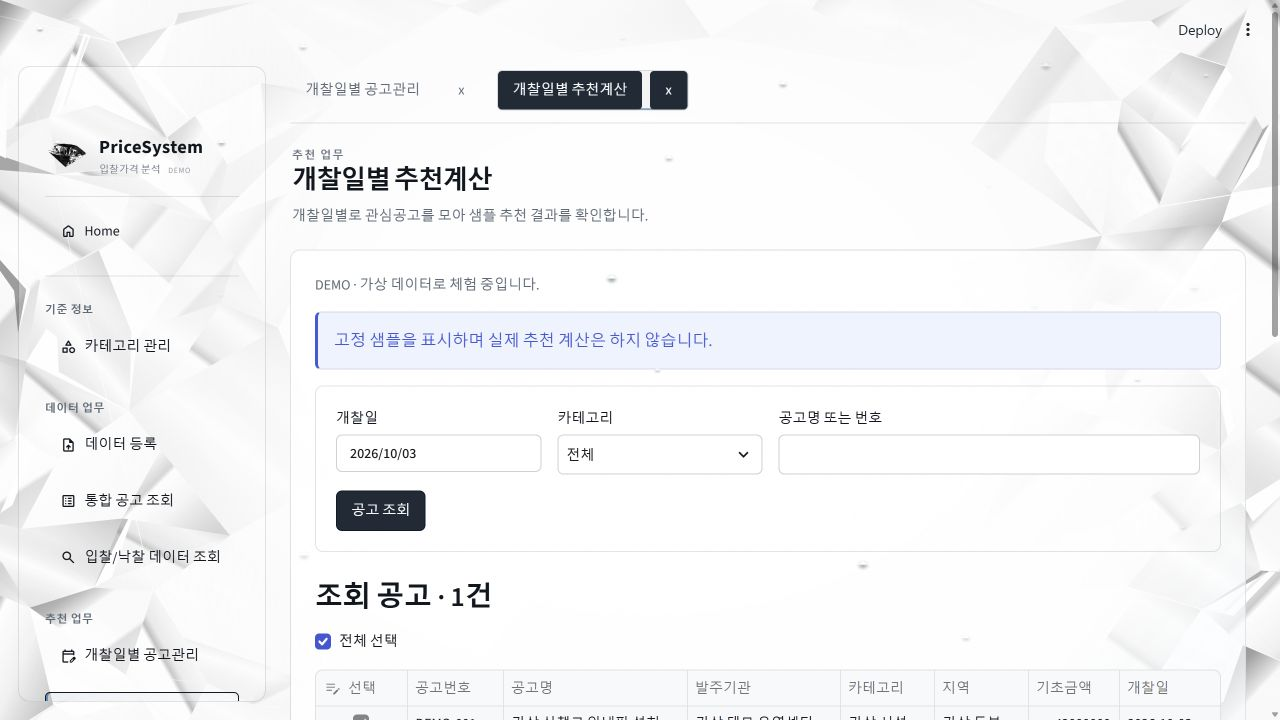
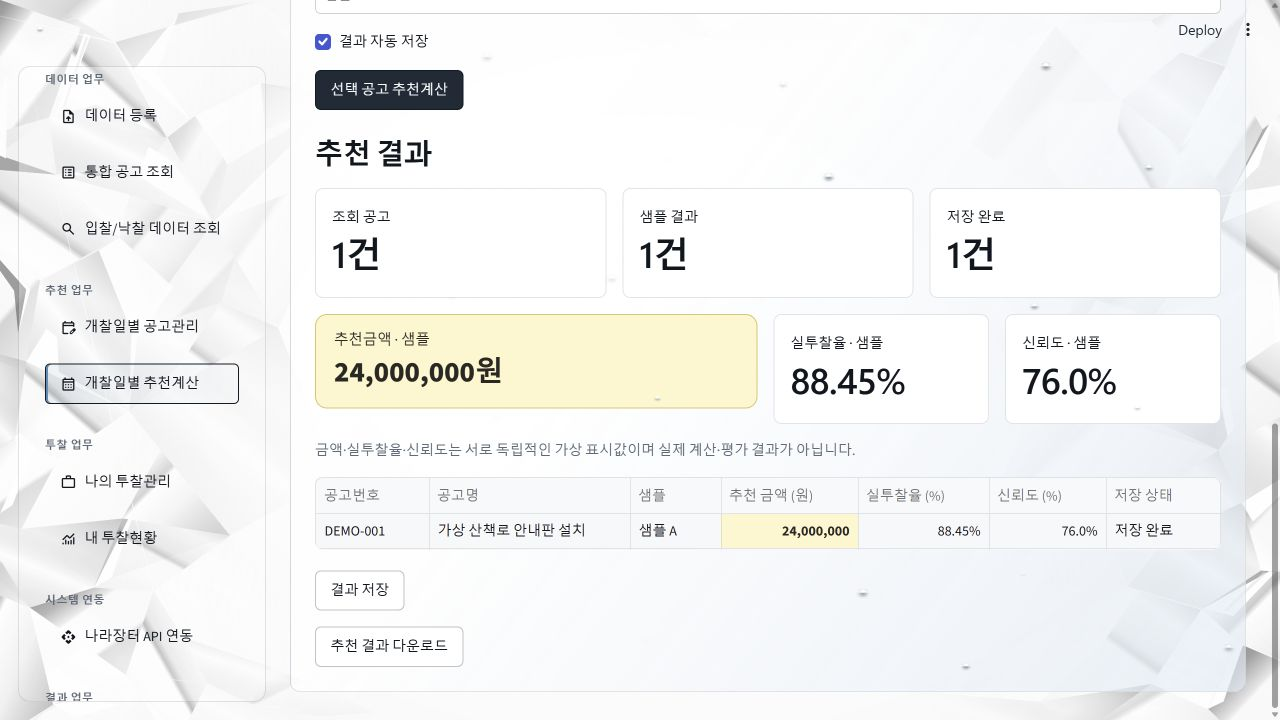
feat: add sample backtest and recommendation metrics

diff --git a/assets/demo.css b/assets/demo.css
@@ -1145,3 +1145,13 @@ div[class*="st-key-workspace_tab_"] div[class*="st-key-tab_close_"] button {
 }
 
 .demo-badge { display:inline-block; margin-left:.35rem; font-size:.5rem; letter-spacing:.08em; opacity:.7; }
+
+.recommendation-amount {
+  background: #fff7cc;
+  color: #292824;
+  border: 1px solid #dcc66b;
+  border-radius: 12px;
+  padding: 14px 18px;
+}
+.recommendation-amount span { display: block; font-size: 0.9rem; }
+.recommendation-amount strong { display: block; font-size: 1.8rem; font-weight: 800; }

diff --git a/demo/bid_pages.py b/demo/bid_pages.py
@@ -5,7 +5,7 @@ import pandas as pd
 import streamlit as st
 
 from demo.data_pages import _upload_panel
-from demo.services import api_response, recommendation
+from demo.services import api_response, backtest_sample, recommendation
 from demo.store import RESULT_OUTCOMES, SUBMISSION_STATUSES
 from demo.ui import csv_bytes as _csv, done, table
 
@@ -30,7 +30,8 @@ def _matches(row, query):
 def _sample_row(notice, scenario):
     sample = recommendation(scenario)
     return dict(notice_id=notice["id"], code=notice["code"], title=notice["title"],
-                scenario=scenario, amount=sample["amount"], note=sample["note"])
+                scenario=scenario, amount=sample["amount"], note=sample["note"],
+                bid_rate=sample["bid_rate"], confidence=sample["confidence"])
 
 
 def _remember(rows):
@@ -57,6 +58,36 @@ def _date_range(rows, prefix, label):
 
 
 def daily_page(store):
+    user_tab, backtest_tab = st.tabs(["사용자용 추천계산", "백테스트"])
+    with user_tab:
+        _daily_recommendations(store)
+    with backtest_tab:
+        st.info(backtest_sample()["note"])
+        if st.button("백테스트 샘플 보기", type="primary", key="backtest_show"):
+            st.session_state["backtest_visible"] = True
+        if st.session_state.get("backtest_visible"):
+            view = backtest_sample()["rows"]
+            won = sum(row["결과"] == "낙찰" for row in view)
+            a, b, c = st.columns(3)
+            a.metric("검증 공고 · 샘플", f"{len(view)}건")
+            b.metric("낙찰 · 샘플", f"{won}건")
+            c.metric("낙찰률 · 샘플", f"{won / len(view):.0%}")
+            _recommendation_table(view)
+            st.download_button("백테스트 샘플 다운로드", _csv(view), "demo-backtest.csv", "text/csv")
+
+
+def _recommendation_table(view):
+    frame = pd.DataFrame(view)
+    styled = frame.style.set_properties(subset=["추천 금액 (원)"],
+                                        **{"background-color": "#fff7cc", "color": "#292824", "font-weight": "700"})
+    st.dataframe(styled, hide_index=True, width="stretch", column_config={
+        "추천 금액 (원)": st.column_config.NumberColumn(format="localized"),
+        "실투찰율 (%)": st.column_config.NumberColumn(format="%.2f%%"),
+        "신뢰도 (%)": st.column_config.NumberColumn(format="%.1f%%"),
+    })
+
+
+def _daily_recommendations(store):
     requested_date = st.session_state.pop("daily_requested_date", None)
     if requested_date is not None:
         if isinstance(requested_date, str):
@@ -127,8 +158,24 @@ def daily_page(store):
                                      [len(rows), len(results), sum(saved.get(row["notice_id"]) == row for row in results)]):
         column.metric(label, f"{count}건")
     view = [{"공고번호": row["code"], "공고명": row["title"], "샘플": row["scenario"], "추천 금액 (원)": row["amount"],
+             "실투찰율 (%)": recommendation(row["scenario"])["bid_rate"],
+             "신뢰도 (%)": recommendation(row["scenario"])["confidence"],
              "저장 상태": "저장 완료" if saved.get(row["notice_id"]) == row else "저장 가능"} for row in results]
-    table(view, list(view[0]))
+    selected = results[0]
+    if len(results) > 1:
+        lookup = {row["notice_id"]: row for row in results}
+        selected_id = st.selectbox("추천 결과 공고", list(lookup), key="daily_result_notice",
+                                   format_func=lambda value: f'{lookup[value]["code"]} · {lookup[value]["title"]}')
+        selected = lookup[selected_id]
+    sample = recommendation(selected["scenario"])
+    a, b, c = st.columns([2, 1, 1])
+    with a:
+        st.markdown(f'<div class="recommendation-amount"><span>추천금액 · 샘플</span>'
+                    f'<strong>{selected["amount"]:,}원</strong></div>', unsafe_allow_html=True)
+    b.metric("실투찰율 · 샘플", f'{sample["bid_rate"]:.2f}%')
+    c.metric("신뢰도 · 샘플", f'{sample["confidence"]:.1f}%')
+    st.caption("금액·실투찰율·신뢰도는 서로 독립적인 가상 표시값이며 실제 계산·평가 결과가 아닙니다.")
+    _recommendation_table(view)
     if st.button("결과 저장", key="daily_save_all"):
         _remember(results)
         done("샘플 결과를 저장했습니다.")
@@ -246,25 +293,36 @@ def status_page(store):
         start, end = _date_range(rows, "status_", "개찰일")
         left, right = st.columns([2, 1])
         keyword = left.text_input("공고명 또는 번호", key="status_keyword")
-        outcome = right.selectbox("결과 상태", ["전체", "결과 미등록", *RESULT_OUTCOMES], key="status_outcome")
+        outcome = right.selectbox("결과 상태", ["전체", "낙찰", "미낙찰", "결과 대기", "작성중", "미투찰"], key="status_outcome")
         st.form_submit_button("조회", type="primary", key="status_search")
     if start > end:
         st.error("종료일은 시작일 이후여야 합니다.")
         return
-    submissions = {row["notice_id"]: row for row in store.submissions()}
+    submissions = {}
+    for submission in store.submissions():
+        previous = submissions.get(submission["notice_id"], {})
+        if submission["status"] == "제출완료" or previous.get("status") != "제출완료":
+            submissions[submission["notice_id"]] = submission
     results = {row["notice_id"]: row for row in store.results()}
-    view = [{"공고번호": row["code"], "공고명": row["title"], "개찰일": row["deadline"],
-             "내 투찰금액": submissions.get(row["id"], {}).get("amount", 0),
-             "내 투찰상태": submissions.get(row["id"], {}).get("status", "미입력"),
-             "결과 상태": results.get(row["id"], {}).get("outcome", "결과 미등록"),
-             "개찰결과 금액": results.get(row["id"], {}).get("amount", 0)}
-            for row in rows if start <= row["deadline"] <= end and _matches(row, keyword)]
+    outcome_labels = {"샘플 낙찰": "낙찰", "샘플 미선정": "미낙찰", "검토중": "결과 대기"}
+    view = []
+    for row in rows:
+        if not (start <= row["deadline"] <= end and _matches(row, keyword)):
+            continue
+        submission = submissions.get(row["id"], {})
+        result = results.get(row["id"], {})
+        status = submission.get("status", "미투찰")
+        result_status = outcome_labels.get(result.get("outcome"), "결과 대기") if status == "제출완료" else status
+        view.append({"공고번호": row["code"], "공고명": row["title"], "개찰일": row["deadline"],
+                     "최종 제출금액": submission.get("amount", 0) if status == "제출완료" else 0, "내 투찰상태": status,
+                     "결과 상태": result_status, "개찰결과 금액": result.get("amount", 0)})
     view = [row for row in view if outcome == "전체" or outcome == row["결과 상태"]]
-    for column, label, count in zip(st.columns(3), ["조회 공고", "투찰 기록", "결과 등록"],
-                                     [len(view), sum(row["내 투찰상태"] != "미입력" for row in view),
-                                      sum(row["결과 상태"] != "결과 미등록" for row in view)]):
+    counts = [len(view), sum(row["내 투찰상태"] == "제출완료" for row in view)]
+    counts.extend(sum(row["결과 상태"] == result for row in view) for result in ("낙찰", "미낙찰", "결과 대기"))
+    for column, label, count in zip(st.columns(5), ["조회 공고", "제출완료", "낙찰", "미낙찰", "결과 대기"], counts):
         column.metric(label, f"{count}건")
-    columns = ["공고번호", "공고명", "개찰일", "내 투찰금액", "내 투찰상태", "결과 상태", "개찰결과 금액"]
+    st.caption("완료한 투찰 기록을 기준으로 낙찰 결과를 표시합니다.")
+    columns = ["공고번호", "공고명", "개찰일", "최종 제출금액", "내 투찰상태", "결과 상태", "개찰결과 금액"]
     table(view, columns)
     if view:
         st.download_button("투찰현황 다운로드", _csv(view), "demo-bid-status.csv", "text/csv")

diff --git a/tests/test_bid_pages.py b/tests/test_bid_pages.py
@@ -45,6 +45,26 @@ class BidPageJourneys(unittest.TestCase):
                 app.run()
                 self.assertFalse(app.exception)
 
+    def test_recommendation_tabs_show_fixed_backtest_and_highlighted_metrics(self):
+        app = self.page("daily_page")
+        self.assertEqual(["사용자용 추천계산", "백테스트"], [tab.label for tab in app.tabs])
+        app.button(key="backtest_show").click().run()
+        self.assertFalse(app.exception)
+        self.assertTrue(any("실제 검증 성과가 아닙니다" in str(item.value) for item in app.info))
+        self.assertEqual(4, len(next(frame.value for frame in app.dataframe if "결과" in frame.value.columns)))
+        self.assertNotIn("demo_recommendations", app.session_state)
+        app.button(key="daily_search").click().run()
+        app.button(key="daily_check").click().run()
+        app.button(key="daily_calculate").click().run()
+        self.assertFalse(app.exception)
+        self.assertTrue(any("recommendation-amount" in str(item.value) for item in app.markdown))
+        metrics = {item.label: item.value for item in app.metric}
+        self.assertEqual("88.45%", metrics["실투찰율 · 샘플"])
+        self.assertEqual("76.0%", metrics["신뢰도 · 샘플"])
+        result = next(frame.value for frame in app.dataframe if "저장 상태" in frame.value.columns)
+        self.assertIn("실투찰율 (%)", result.columns)
+        self.assertIn("신뢰도 (%)", result.columns)
+
     def test_daily_requires_sample_confirmation_and_saves_selected_result(self):
         app = self.page("daily_page")
         app.button(key="daily_search").click().run()
@@ -232,6 +252,69 @@ class BidPageJourneys(unittest.TestCase):
         from demo.bid_pages import _csv
         content = _csv([{"공고명": "=1+1", "금액": 42}]).decode("utf-8-sig")
         self.assertIn("'=1+1", content)
+
+    def test_status_shows_my_awards_and_excludes_unsubmitted_results(self):
+        app = self.page("status_page")
+        rows = app.dataframe[0].value.set_index("공고번호")
+        self.assertIn("최종 제출금액", rows.columns)
+        self.assertNotIn("내 투찰금액", rows.columns)
+        self.assertEqual(0, rows.loc["DEMO-001", "최종 제출금액"])
+        self.assertEqual(0, rows.loc["DEMO-011", "최종 제출금액"])
+        self.assertTrue(any("완료한 투찰 기록을 기준으로 낙찰 결과를 표시합니다." == item.value for item in app.caption))
+        self.assertEqual("낙찰", rows.loc["DEMO-009", "결과 상태"])
+        self.assertEqual("미낙찰", rows.loc["DEMO-010", "결과 상태"])
+        self.assertEqual("결과 대기", rows.loc["DEMO-007", "결과 상태"])
+        self.assertEqual("미투찰", rows.loc["DEMO-011", "결과 상태"])
+        self.assertEqual("작성중", rows.loc["DEMO-001", "결과 상태"])
+        metrics = {item.label: item.value for item in app.metric}
+        self.assertEqual("3건", metrics["제출완료"])
+        self.assertEqual("1건", metrics["낙찰"])
+        self.assertEqual("1건", metrics["미낙찰"])
+        self.assertEqual("1건", metrics["결과 대기"])
+
+    def test_status_result_filters_and_counts_match_the_visible_records(self):
+        app = self.page("status_page")
+        self.assertEqual(
+            ["전체", "낙찰", "미낙찰", "결과 대기", "작성중", "미투찰"],
+            app.selectbox(key="status_outcome").options,
+        )
+        for outcome, code in [("낙찰", "DEMO-009"), ("미낙찰", "DEMO-010"), ("결과 대기", "DEMO-007")]:
+            app.selectbox(key="status_outcome").set_value(outcome)
+            app.button(key="status_search").click().run()
+            self.assertFalse(app.exception)
+            rows = app.dataframe[0].value
+            self.assertEqual([code], rows["공고번호"].tolist())
+            self.assertEqual([outcome], rows["결과 상태"].tolist())
+            metrics = {item.label: item.value for item in app.metric}
+            self.assertEqual("1건", metrics["조회 공고"])
+            self.assertEqual("1건", metrics[outcome])
+            for other in {"낙찰", "미낙찰", "결과 대기"} - {outcome}:
+                self.assertEqual("0건", metrics[other])
+        app.selectbox(key="status_outcome").set_value("전체")
+        app.text_input(key="status_keyword").set_value("DEMO-011")
+        app.button(key="status_search").click().run()
+        metrics = {item.label: item.value for item in app.metric}
+        self.assertEqual("1건", metrics["조회 공고"])
+        for label in ("제출완료", "낙찰", "미낙찰", "결과 대기"):
+            self.assertEqual("0건", metrics[label])
+
+    def test_status_review_pending_and_later_draft_keep_completed_submission(self):
+        app = self.page("status_page")
+        store = app.session_state["store"]
+        submitted_amount = next(row["amount"] for row in store.submissions() if row["notice_id"] == 9)
+        store.save_submission(dict(notice_id=12, company="가상 제출 참가자", amount=1, status="제출완료", memo=""))
+        store.save_submission(dict(notice_id=9, company="가상 초안 참가자", amount=2, status="작성중", memo=""))
+        app.run()
+        self.assertFalse(app.exception)
+        rows = app.dataframe[0].value.set_index("공고번호")
+        self.assertEqual("결과 대기", rows.loc["DEMO-012", "결과 상태"])
+        self.assertEqual("낙찰", rows.loc["DEMO-009", "결과 상태"])
+        self.assertEqual("제출완료", rows.loc["DEMO-009", "내 투찰상태"])
+        self.assertEqual(submitted_amount, rows.loc["DEMO-009", "최종 제출금액"])
+        metrics = {item.label: item.value for item in app.metric}
+        self.assertEqual("4건", metrics["제출완료"])
+        self.assertEqual("1건", metrics["낙찰"])
+        self.assertEqual("2건", metrics["결과 대기"])
 
 
 if __name__ == "__main__":

diff --git a/demo/services.py b/demo/services.py
@@ -9,19 +9,38 @@ def authenticate(username, password):
 def recommendation(scenario="샘플 A"):
     """입력 공고와 무관한 고정 표시값으로 화면만 시연한다."""
     samples = {
-        "샘플 A": (24000000, (22, 48, 66, 45, 28)),
-        "샘플 B": (36000000, (31, 54, 39, 62, 36)),
-        "샘플 C": (18000000, (43, 27, 57, 34, 51)),
+        "샘플 A": (24000000, (22, 48, 66, 45, 28), 88.45, 76.0),
+        "샘플 B": (36000000, (31, 54, 39, 62, 36), 89.12, 81.5),
+        "샘플 C": (18000000, (43, 27, 57, 34, 51), 87.96, 72.0),
     }
     if scenario not in samples:
         raise ValueError("분석 샘플을 선택해 주세요.")
-    amount, values = samples[scenario]
+    amount, values, bid_rate, confidence = samples[scenario]
     return {
         "scenario": scenario,
         "label": "가상 표시 금액",
         "amount": amount,
+        "bid_rate": bid_rate,
+        "confidence": confidence,
         "points": [{"label": f"표시 {index}", "value": value} for index, value in enumerate(values, 1)],
         "note": "고정 샘플 표시값입니다. 입력 공고와 무관하며 실제 추천·예측·낙찰 확률이 아닙니다.",
+    }
+
+
+def backtest_sample():
+    """입력 데이터나 분석 엔진을 사용하지 않는 독립적인 백테스트 화면 샘플."""
+    examples = (
+        ("가상 전시공간 정비", 24000000, 24000000, 88.45, 76.0, "낙찰"),
+        ("가상 교육자료 제작", 18000000, 17900000, 87.96, 72.0, "미낙찰"),
+        ("가상 안내시설 설치", 36000000, 35700000, 89.12, 81.5, "미낙찰"),
+        ("가상 체험장 물품 구매", 21000000, 20800000, 88.20, 74.5, "미낙찰"),
+    )
+    return {
+        "note": "고정 샘플입니다. 실제 백테스트를 실행하지 않으며 실제 검증 성과가 아닙니다.",
+        "rows": [{"공고번호": f"DEMO-BT-{index:03d}", "공고명": title,
+                  "추천 금액 (원)": amount, "낙찰 금액 (원)": awarded,
+                  "실투찰율 (%)": rate, "신뢰도 (%)": confidence, "결과": outcome}
+                 for index, (title, amount, awarded, rate, confidence, outcome) in enumerate(examples, 1)],
     }
 
 

diff --git a/tests/test_services.py b/tests/test_services.py
@@ -1,5 +1,6 @@
 import unittest
 
+from demo import services
 from demo.services import api_response, authenticate, recommendation
 
 
@@ -13,7 +14,9 @@ class ServiceTests(unittest.TestCase):
         for scenario in ("샘플 A", "샘플 B", "샘플 C"):
             data = recommendation(scenario)
             self.assertEqual(scenario, data["scenario"])
-            self.assertEqual({"scenario", "label", "amount", "points", "note"}, set(data))
+            self.assertEqual({"scenario", "label", "amount", "points", "note", "bid_rate", "confidence"}, set(data))
+            self.assertGreater(data["bid_rate"], 0)
+            self.assertTrue(0 <= data["confidence"] <= 100)
             self.assertIn("샘플", data["note"])
             self.assertIsInstance(data["amount"], int)
             self.assertTrue(all(set(p) == {"label", "value"} for p in data["points"]))
@@ -21,6 +24,16 @@ class ServiceTests(unittest.TestCase):
             self.assertTrue(recommendation(scenario)["points"])
         with self.assertRaises(ValueError):
             recommendation("실제 분석")
+
+    def test_backtest_is_an_independent_fixed_sample(self):
+        self.assertTrue(hasattr(services, "backtest_sample"))
+        data = services.backtest_sample()
+        self.assertIn("고정 샘플", data["note"])
+        self.assertEqual(4, len(data["rows"]))
+        self.assertEqual({"낙찰", "미낙찰"}, {row["결과"] for row in data["rows"]})
+        self.assertTrue(all(row["공고번호"].startswith("DEMO-BT-") for row in data["rows"]))
+        data["rows"][0]["추천 금액 (원)"] = 1
+        self.assertNotEqual(1, services.backtest_sample()["rows"][0]["추천 금액 (원)"])
 
     def test_api_scenarios_and_payload_copies(self):
         normal = api_response()

diff --git a/README.md b/README.md
@@ -28,11 +28,11 @@ PriceSystem은 공고와 관련 자료를 등록하고, 분석 화면을 거쳐 
 
 ### 운영 버전과 공개 데모의 차이
 
-**현재 운영 중인 시스템에는 실제 추천 계산 로직과 정밀 분석 기능이 구현되어 있습니다.** 해당 핵심 구현과 내부 판단 기준은 비공개로 유지하며, 이 공개 데모에는 포함하지 않았습니다.
+**현재 운영 중인 시스템에는 실제 추천 계산 로직, 정밀 분석 및 백테스트 기능이 구현되어 있습니다.** 해당 핵심 구현과 내부 판단 기준은 비공개로 유지하며, 이 공개 데모에는 포함하지 않았습니다.
 
 | 구분 | 운영 시스템 | 공개 데모 |
 | --- | --- | --- |
-| 추천 계산·정밀 분석 | 실제 추천 계산 로직과 정밀 분석 기능 사용 | 해당 로직 제외, 화면 시연용 고정 샘플로 대체 |
+| 추천 계산·정밀 분석·백테스트 | 실제 계산·분석과 백테스트 수행 | 해당 로직 제외, 화면 시연용 고정 샘플로 대체 |
 | 업무 데이터 | 실제 업무 데이터 사용 | 새로 만든 가상 데이터만 사용 |
 | 체험 범위 | 실제 입찰 업무에 사용하는 시스템 | 화면 구성, 업무 흐름, 검색·필터·CRUD 체험 |
 
@@ -80,7 +80,7 @@ PriceSystem은 공고와 관련 자료를 등록하고, 분석 화면을 거쳐 
 <details>
 <summary><strong>분석 화면 보기</strong> — 공고 선택과 추천 샘플 확인</summary>
 
-공고를 선택하고 시연용 추천 결과를 확인합니다. 표시되는 금액은 실제 분석 결과가 아닌 고정 샘플입니다.
+공고를 선택하면 추천금액을 노란색으로 강조하고, 실투찰율·신뢰도를 함께 보여줍니다. 별도의 백테스트 탭에서 요약과 공고별 결과도 살펴볼 수 있습니다. 모든 값은 실제 분석·검증 결과가 아닌 고정 샘플입니다.
 
 ![고정 샘플 안내가 표시된 분석 화면](docs/images/analysis.png)
 
@@ -117,9 +117,9 @@ PriceSystem은 공고와 관련 자료를 등록하고, 분석 화면을 거쳐 
 | 공고 조회 | 통합 공고 조회 | 공고 검색, 목록과 상세 정보 조회 |
 | 자료 조회 | 입찰/낙찰 데이터 조회 | 조건별 검색과 상세 자료 확인 |
 | 일정별 공고 관리 | 개찰일별 공고관리 | 개찰일별 공고 조회와 관심 공고 관리 |
-| 일정별 분석 | 개찰일별 추천계산 | 날짜별 공고 선택, 샘플 결과 확인·저장 |
+| 일정별 분석 | 개찰일별 추천계산 | 사용자용 추천금액·실투찰율·신뢰도 샘플, 백테스트 샘플 탭, 결과 저장 |
 | 투찰 기록 | 나의 투찰관리 | 가상 회사의 투찰 기록 등록·조회·수정·삭제 |
-| 현황 확인 | 내 투찰현황 | 투찰 기록과 샘플 결과 조회 |
+| 현황 확인 | 내 투찰현황 | 투찰 기록과 낙찰·미낙찰·결과 대기 건수 조회 |
 | API 화면 | 나라장터 API 연동 | 외부 호출 없이 정상·빈 결과·오류 샘플 응답 확인 |
 | 결과 정리 | 결과 관리 | 결과 자료 등록, 수기 수정, 표시용 추천 결과 확인 |
 

diff --git a/docs/ARCHITECTURE.md b/docs/ARCHITECTURE.md
@@ -49,7 +49,7 @@ SQLite 연결은 방문자의 현재 세션에서 사용합니다. 데이터 변
 ## 데모 서비스의 경계
 
 - 공개 데모 계정은 화면 체험을 위한 진입 장치입니다. 운영용 인증·권한 체계는 구현 범위에 포함하지 않습니다.
-- 분석·추천은 미리 정의한 샘플을 표시합니다. 실제 수식이나 전략을 실행하지 않습니다.
+- 분석·추천·백테스트는 미리 정의한 샘플을 표시합니다. 추천금액·실투찰율·신뢰도는 독립적인 가상 표시값이며 실제 수식이나 전략을 실행하지 않습니다. 백테스트 표는 운영 이력이나 방문자가 등록한 데이터로 계산하지 않습니다.
 - API 샘플은 메모리의 고정 응답을 사용합니다. 외부 서비스 요청, API 키, 외부 데이터 수집은 없습니다.
 - Excel/PDF 화면은 새 고정 샘플의 미리보기·등록·공고 연결을 체험합니다. 업로드한 파일을 실제로 판독하지 않습니다. 저장소의 CSV 입력 기능은 독립적인 가상 데이터 계약만 지원합니다.
 - 회사 관리에는 가상 값만 사용하고 사용자는 단일 데모 계정으로 체험합니다.
